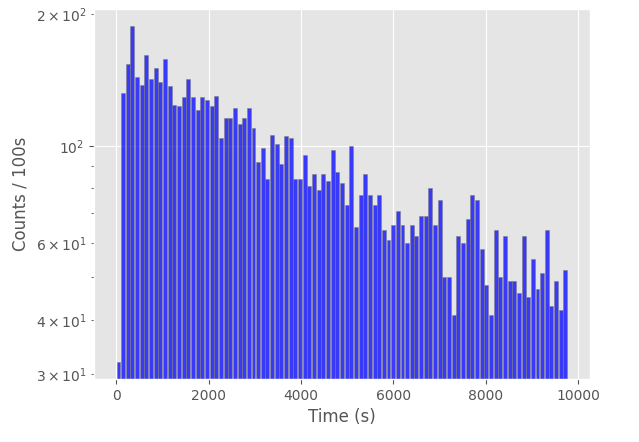
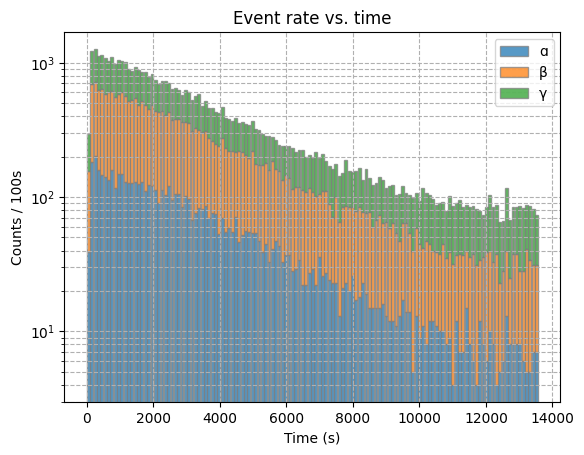
nicer Radon rate picture

diff --git a/EducatorsGuide.md b/EducatorsGuide.md
@@ -583,30 +583,29 @@ time of 1000s are shown below.
 
 > ![Two clear muon tracks ](images/muonTracks.png) 
 
-This example illustrate the usefulness of the *miniPIX* as a dosimeter 
-to monitor radioactive environments. Different conditions outdoors, in
-a well-ventilated room or in the typically badly ventilated basements
-of buildings interesting locations to study. 
+The example of a recording of ambient radiatoin also illustrate the usefulness 
+of the *miniPIX* as a **dosimeter** to monitor radioactive environments. 
+Different conditions outdoors, in a well-ventilated room or in the typically 
+badly ventilated basements of buildings interesting locations to study. 
 
-Another common source of environmental radioactivity stems from
-Radon and its decay products, which can easily be accumulated
-on a paper towel with a vacuum cleaner or on the surface
-of an electrostatically chared balloon. An increase by factors of 
-three to five compared to natural radiation levels for both α, β 
-particles and γ radiation is easily achievable. 
+Another common source of environmental radioactivity stems from the noble gas 
+Radon and its decay products, which can easily be accumulated on a paper towel 
+with a vacuum cleaner or on the surface of an electrostatically chared balloon. 
+An increase by a factor of ten compared to natural radiation levels for both 
+α, β particles and γ radiation is easily achievable. 
 
-An example of decay products registered with a paper towel that had
+An example of particle rates registered with a paper towel that had
 been exposed to the air flow of a vacuum cleaner for 10min is shown below.
 
 > ![Rate of Radon decay products. vs. Time ](images/Radon-decayRate.png) 
 
-Starting fromm a background rate of about 0.3 Hz (the first bin in the graph)
-the rate of recorded clusters or single pixels jumps to over 10 HZ when the
-sensor is exposed to the towel, and then drops exponentially with time. 
-The short-lived nuclei produced from Radon decays offer one of the rare cases 
-to directly observe an  exponential decay. Note that this is not an
-exact exponential function because of the production of radioactive 
-daughter nuclei which contribute to the recorded decay products.  
+Starting from a background rate of about 0.5HZ the rate of detected clusters
+or single pixels jumps to over 10 HZ when the sensor is exposed to the towel, 
+and then drops exponentially with time. The short-lived nuclei produced from 
+Radon decays offer one of the rare cases to directly observe an  exponential 
+decay. Note that this is not an exact exponential function because of the
+production of radioactive daughter nuclei which contribute to the recorded 
+decay products.  
 
 
 ### Absorption of γ rays in materials
@@ -626,7 +625,7 @@ interaction probability is proportional $N(l)$. This leads to an exponential
 dependence of the remaining number of photons,  
 $N(l) = N_0 \cdot \exp{(-\mu  l)}$.
 $\mu$ is the mass absorption (or attenuation) coefficient of the material, 
-which can be determined in a sequence of measurements varying absorber 
+which can be determined in a sequence of measurements with varying absorber 
 thickness and incident γ energy.  
 
 
